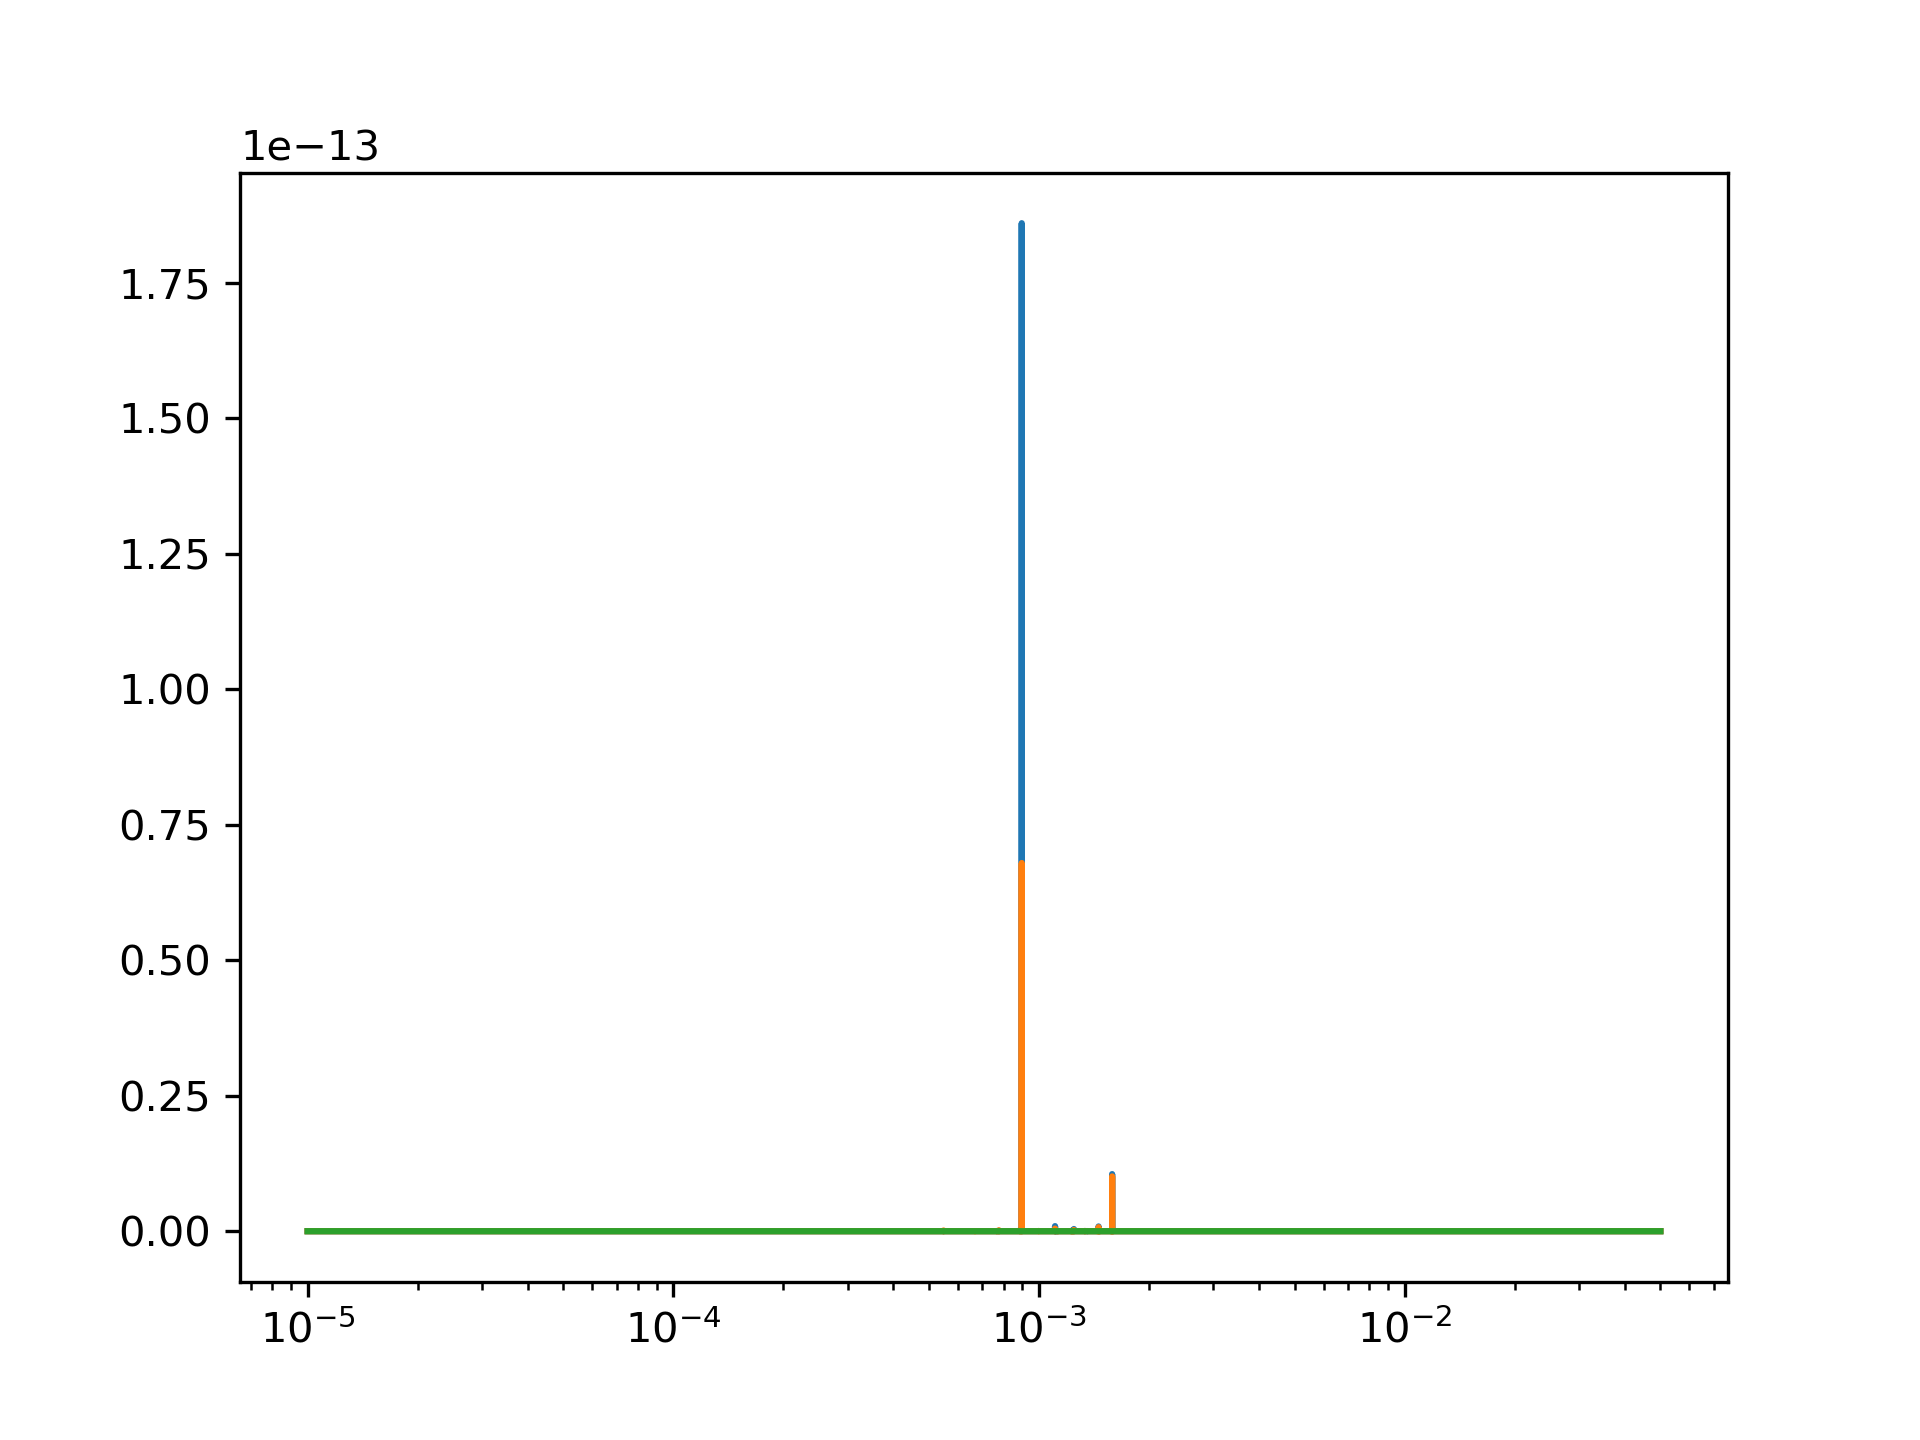
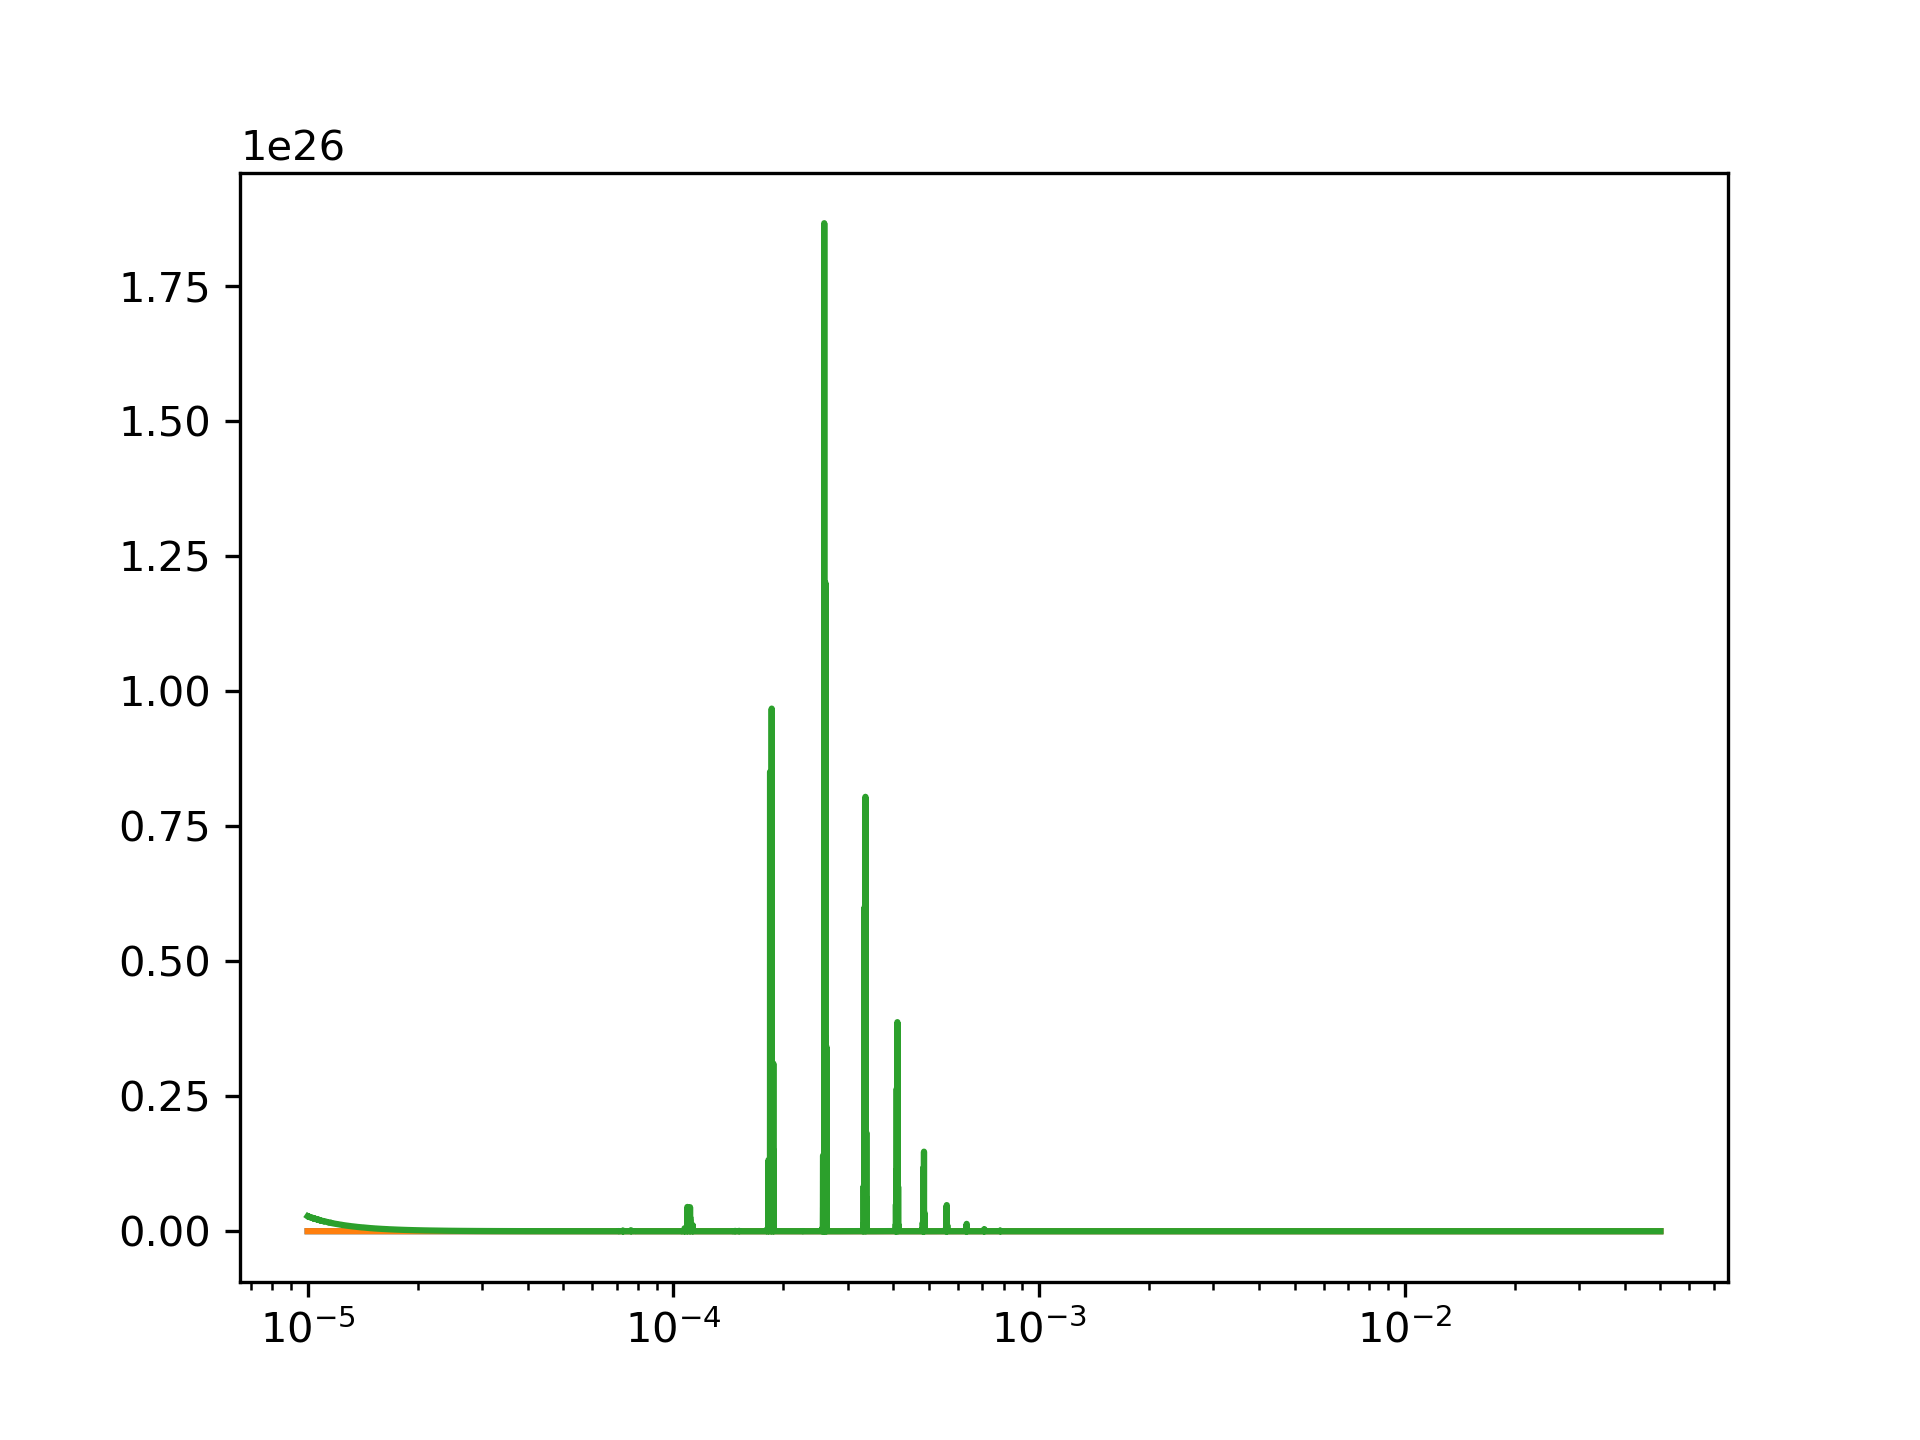
minor bugs fixed, AET PSD units adjusted

diff --git a/master_thesis_code/LISA_configuration.py b/master_thesis_code/LISA_configuration.py
@@ -26,8 +26,9 @@ f_k = 0.00215
 YEAR_IN_SEC = int(365.5 * 24 * 60 * 60)
 STEPS = 10_000
 DT = YEAR_IN_SEC / STEPS
-M_IN_GPC = 3.2407788498994e-26
 
+M_IN_GPC = 3.2407788498994e-26
+L_IN_GPC = 2.5e9*M_IN_GPC
 
 class LisaTdiConfiguration:
     def power_spectral_density(
@@ -44,14 +45,14 @@ class LisaTdiConfiguration:
 
         return (
             8
-            * cp.sin(2 * cp.pi * frequencies * L) ** 2
+            * cp.sin(2 * cp.pi * frequencies * L_IN_GPC) ** 2
             * (
-                self.S_OMS(frequencies) * (cp.cos(2 * cp.pi * frequencies * L) + 2)
+                self.S_OMS(frequencies) * (cp.cos(2 * cp.pi * frequencies * L_IN_GPC) + 2)
                 + 2
                 * (
                     3
-                    + 2 * cp.cos(2 * cp.pi * frequencies * L)
-                    + cp.cos(4 * cp.pi * frequencies * L)
+                    + 2 * cp.cos(2 * cp.pi * frequencies * L_IN_GPC)
+                    + cp.cos(4 * cp.pi * frequencies * L_IN_GPC)
                 )
                 * self.S_TM(frequencies)
             )
@@ -62,15 +63,15 @@ class LisaTdiConfiguration:
         return (
             16
             / 3
-            * cp.sin(cp.pi * frequencies * L) ** 2
-            * cp.sin(2 * cp.pi * frequencies * L) ** 2
+            * cp.sin(cp.pi * frequencies * L_IN_GPC) ** 2
+            * cp.sin(2 * cp.pi * frequencies * L_IN_GPC) ** 2
             * self.S_zz(frequencies)
         )
 
     def S_zz(self, frequencies: cp.array) -> cp.array:
         return 6 * (
             self.S_OMS(frequencies)
-            + 2 * (1 - cp.cos(2 * cp.pi * frequencies * L) * self.S_TM(frequencies))
+            + 2 * (1 - cp.cos(2 * cp.pi * frequencies * L_IN_GPC) * self.S_TM(frequencies))
         )
 
     @staticmethod
@@ -101,22 +102,21 @@ class LisaTdiConfiguration:
 
         # create plots
         # plot power spectral density
-        fs = cp.linspace(MINIMAL_FREQUENCY, MAXIMAL_FREQUENCY, 10000)
+        fs = cp.logspace(MINIMAL_FREQUENCY, MAXIMAL_FREQUENCY, 10000)
         fig = plt.figure(figsize=(12, 8))
         for channel in ["A", "T"]:
             plt.plot(
                 cp.asnumpy(fs),
-                cp.asnumpy(cp.sqrt(self.power_spectral_density(fs, channel=channel))),
+                cp.asnumpy(self.power_spectral_density(fs, channel=channel)),
                 "-",
                 linewidth=1,
-                label=f"sqrt(S_{channel}(f))",
+                label=f"S_{channel}(f)",
             )
 
         plt.xlabel("f [Hz]")
         plt.legend()
         plt.xscale("log")
         plt.yscale("log")
-        plt.ylim(1e-21, 1e-14)
         plt.savefig(figures_directory + "LISA_PSD.png", dpi=300)
         plt.clf()
 

diff --git a/master_thesis_code/parameter_estimation/parameter_estimation.py b/master_thesis_code/parameter_estimation/parameter_estimation.py
@@ -143,7 +143,7 @@ class ParameterEstimation:
         max_possible_length = min(
             [
                 min(
-                    [len(tdi_channel for tdi_channel in tdi_channels)]
+                    [len(tdi_channel) for tdi_channel in tdi_channels]
                     for tdi_channels in signal_collection
                 )
             ]
